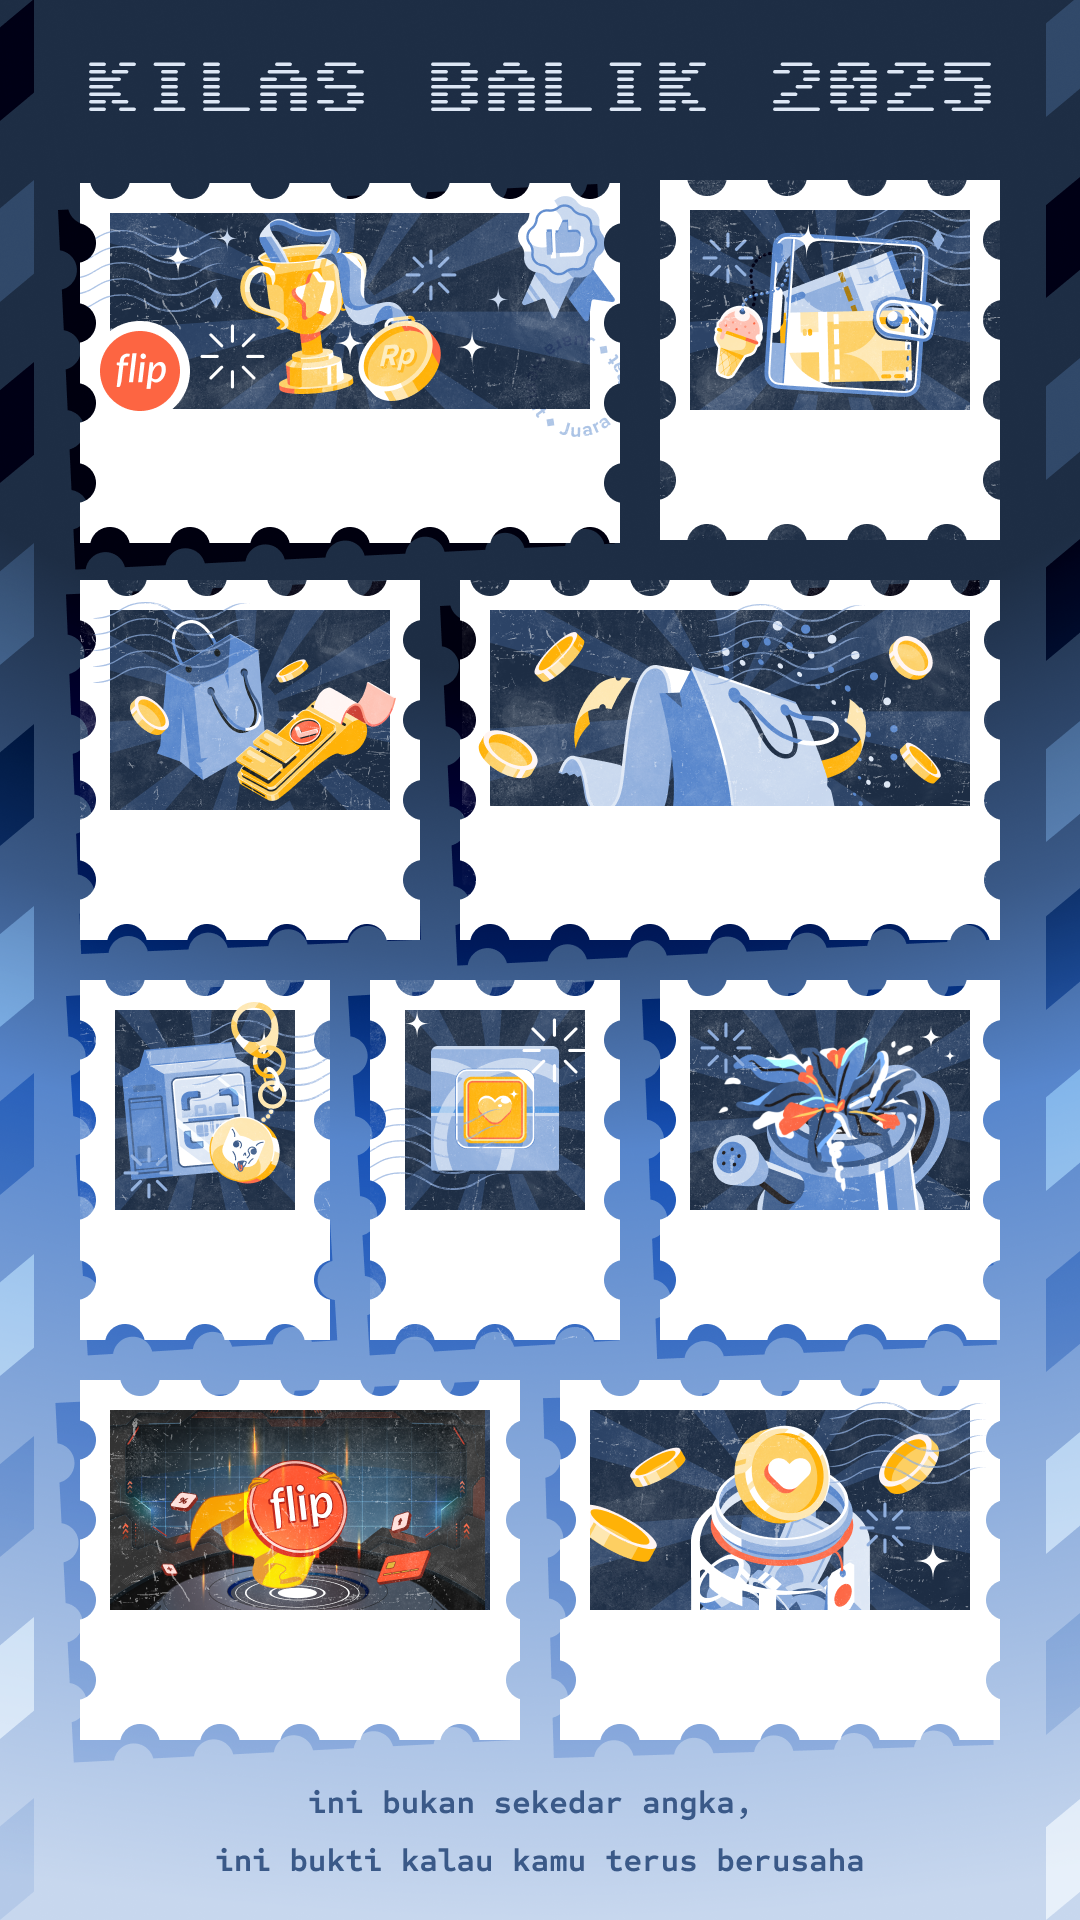
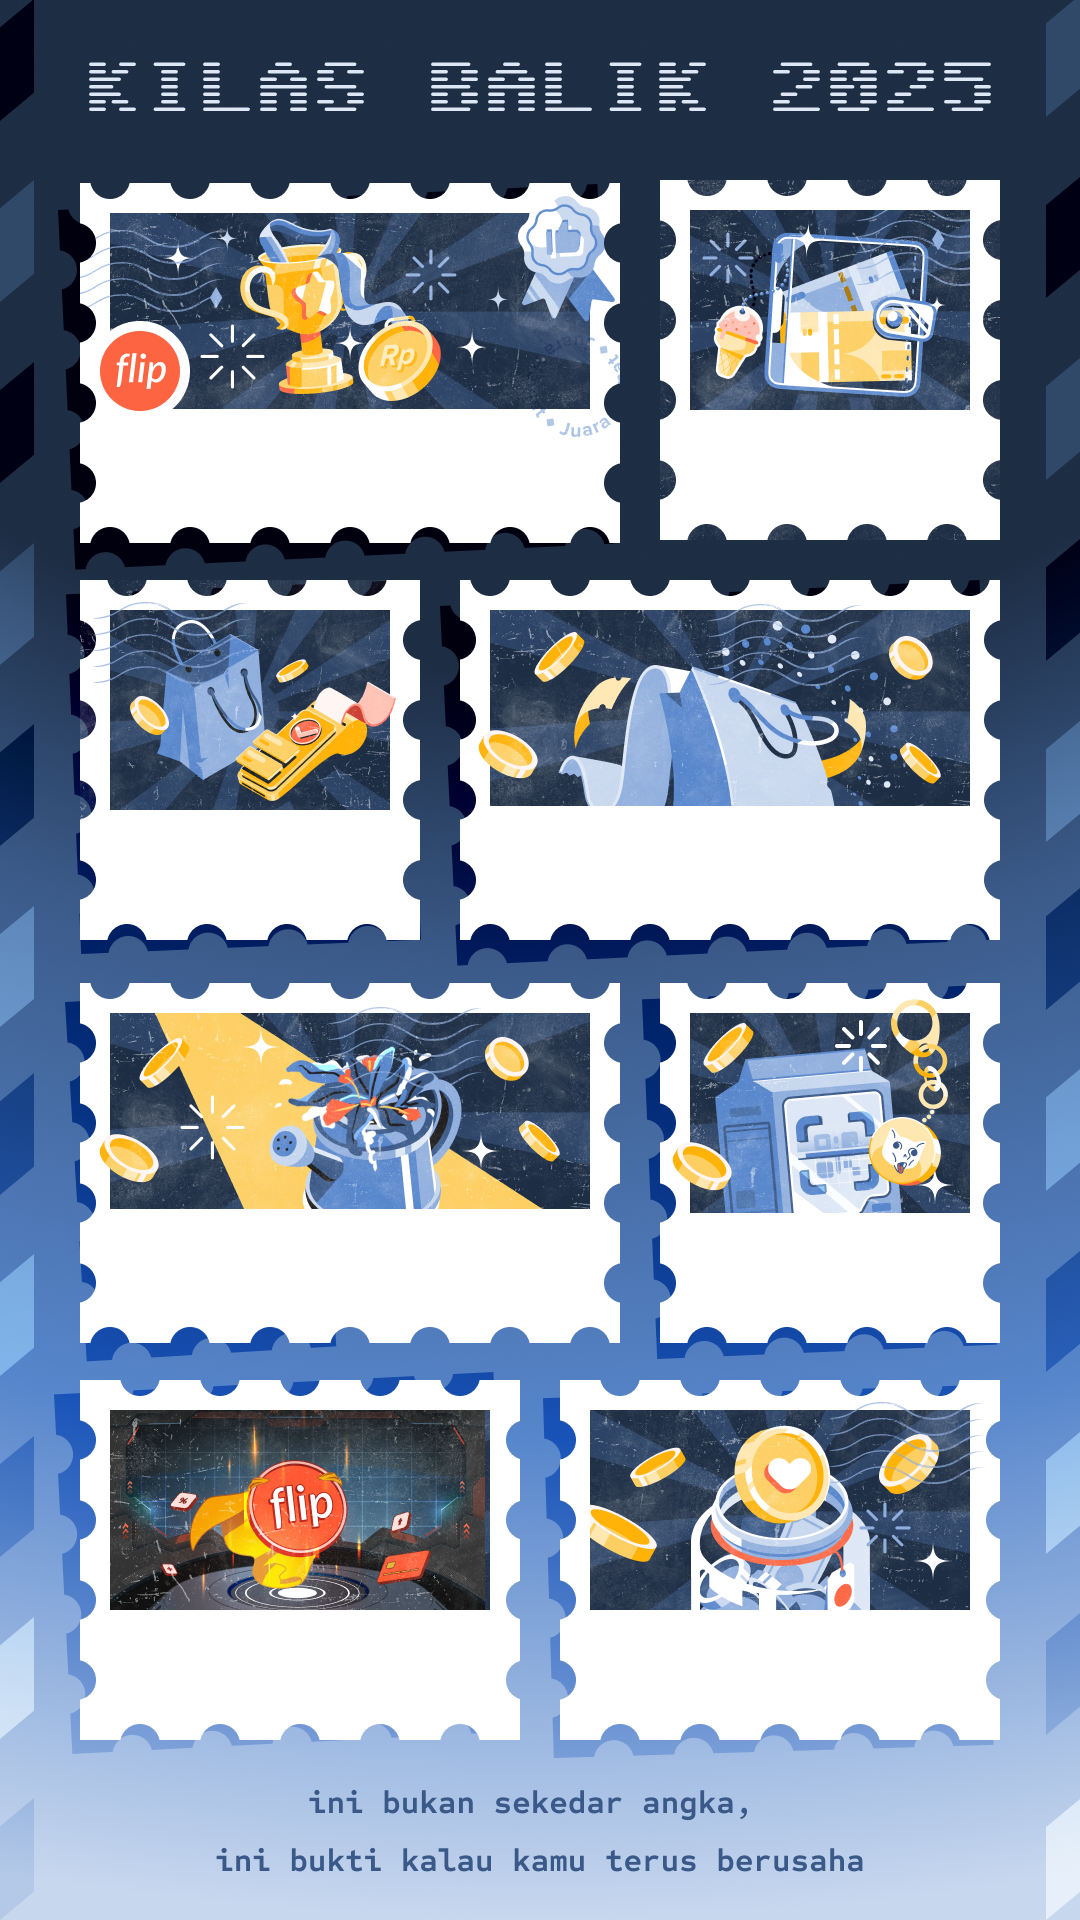
fixing to hide the gold in sharable content

Changed region(s): [[0.0, 0.5, 1.0, 0.875]]

diff --git a/app.js b/app.js
@@ -552,7 +552,8 @@ document.addEventListener("DOMContentLoaded", async function () {
     // Title
     const fullscreenTitle = document.createElement("div");
     fullscreenTitle.className = "wallpaper-fullscreen-title";
-    fullscreenTitle.textContent = "Kamu bisa screenshot gambarnya untuk simpan & bagikan";
+    fullscreenTitle.textContent =
+      "Kamu bisa screenshot gambarnya untuk simpan & bagikan";
 
     // Image container
     const imageContainer = document.createElement("div");
@@ -971,12 +972,12 @@ document.addEventListener("DOMContentLoaded", async function () {
             68,
             52
           )}
-          ${createStamp(qrisTransactionCountRaw + "x", "QRIS", 19, 32)}
-          ${createStamp(unitOwnedRaw, "gr emas", 46, 32)}
+          ${createStamp(qrisTransactionCountRaw + "x", "QRIS", 77, 32)}
+
           ${createStamp(
             formatCurrency(uniqueCodeDonationRaw),
             "Donasi Kode Unik",
-            77,
+            32,
             32
           )}
           ${createStamp(
@@ -1423,20 +1424,28 @@ document.addEventListener("DOMContentLoaded", async function () {
   const createSharePopup = () => {
     const sharePopup = document.createElement("div");
     // Only use fullscreen for Android devices, popup for everything else
-    sharePopup.className = isAndroid() ? "share-fullscreen-android" : "share-popup";
+    sharePopup.className = isAndroid()
+      ? "share-fullscreen-android"
+      : "share-popup";
     sharePopup.id = "sharePopup";
 
     const sharePopupContent = document.createElement("div");
-    sharePopupContent.className = isAndroid() ? "share-fullscreen-content" : "share-popup-content";
+    sharePopupContent.className = isAndroid()
+      ? "share-fullscreen-content"
+      : "share-popup-content";
 
     const shareTitle = document.createElement("div");
-    shareTitle.className = isAndroid() ? "share-fullscreen-title" : "share-popup-title";
+    shareTitle.className = isAndroid()
+      ? "share-fullscreen-title"
+      : "share-popup-title";
     shareTitle.textContent = isAndroid()
       ? "Screenshot halaman ini untuk bagikan cerita"
       : "Bagikan ke teman-temanmu?";
 
     const sharePreviewContainer = document.createElement("div");
-    sharePreviewContainer.className = isAndroid() ? "share-fullscreen-preview" : "share-preview-container";
+    sharePreviewContainer.className = isAndroid()
+      ? "share-fullscreen-preview"
+      : "share-preview-container";
 
     // Create canvas to capture asset 26 with overlay
     const canvas = document.createElement("canvas");
@@ -1526,12 +1535,12 @@ document.addEventListener("DOMContentLoaded", async function () {
           68,
           52
         );
-        drawStamp(qrisTransactionCountRaw + "x", "QRIS", 19, 32);
-        drawStamp(unitOwnedRaw, "gr emas", 46, 32);
+        drawStamp(qrisTransactionCountRaw + "x", "QRIS", 77, 32);
+
         drawStamp(
           formatCurrency(uniqueCodeDonationRaw),
           "Donasi Kode Unik",
-          77,
+          32,
           32
         );
         drawStamp(
@@ -1564,7 +1573,9 @@ document.addEventListener("DOMContentLoaded", async function () {
     const closeBtn = document.createElement("img");
     closeBtn.src = "assets/navigation/close-button.png";
     closeBtn.alt = "Close";
-    closeBtn.className = isAndroid() ? "share-fullscreen-close-btn-bottom" : "share-close-btn";
+    closeBtn.className = isAndroid()
+      ? "share-fullscreen-close-btn-bottom"
+      : "share-close-btn";
     closeBtn.addEventListener("click", () => {
       sharePopup.classList.remove("active");
     });
